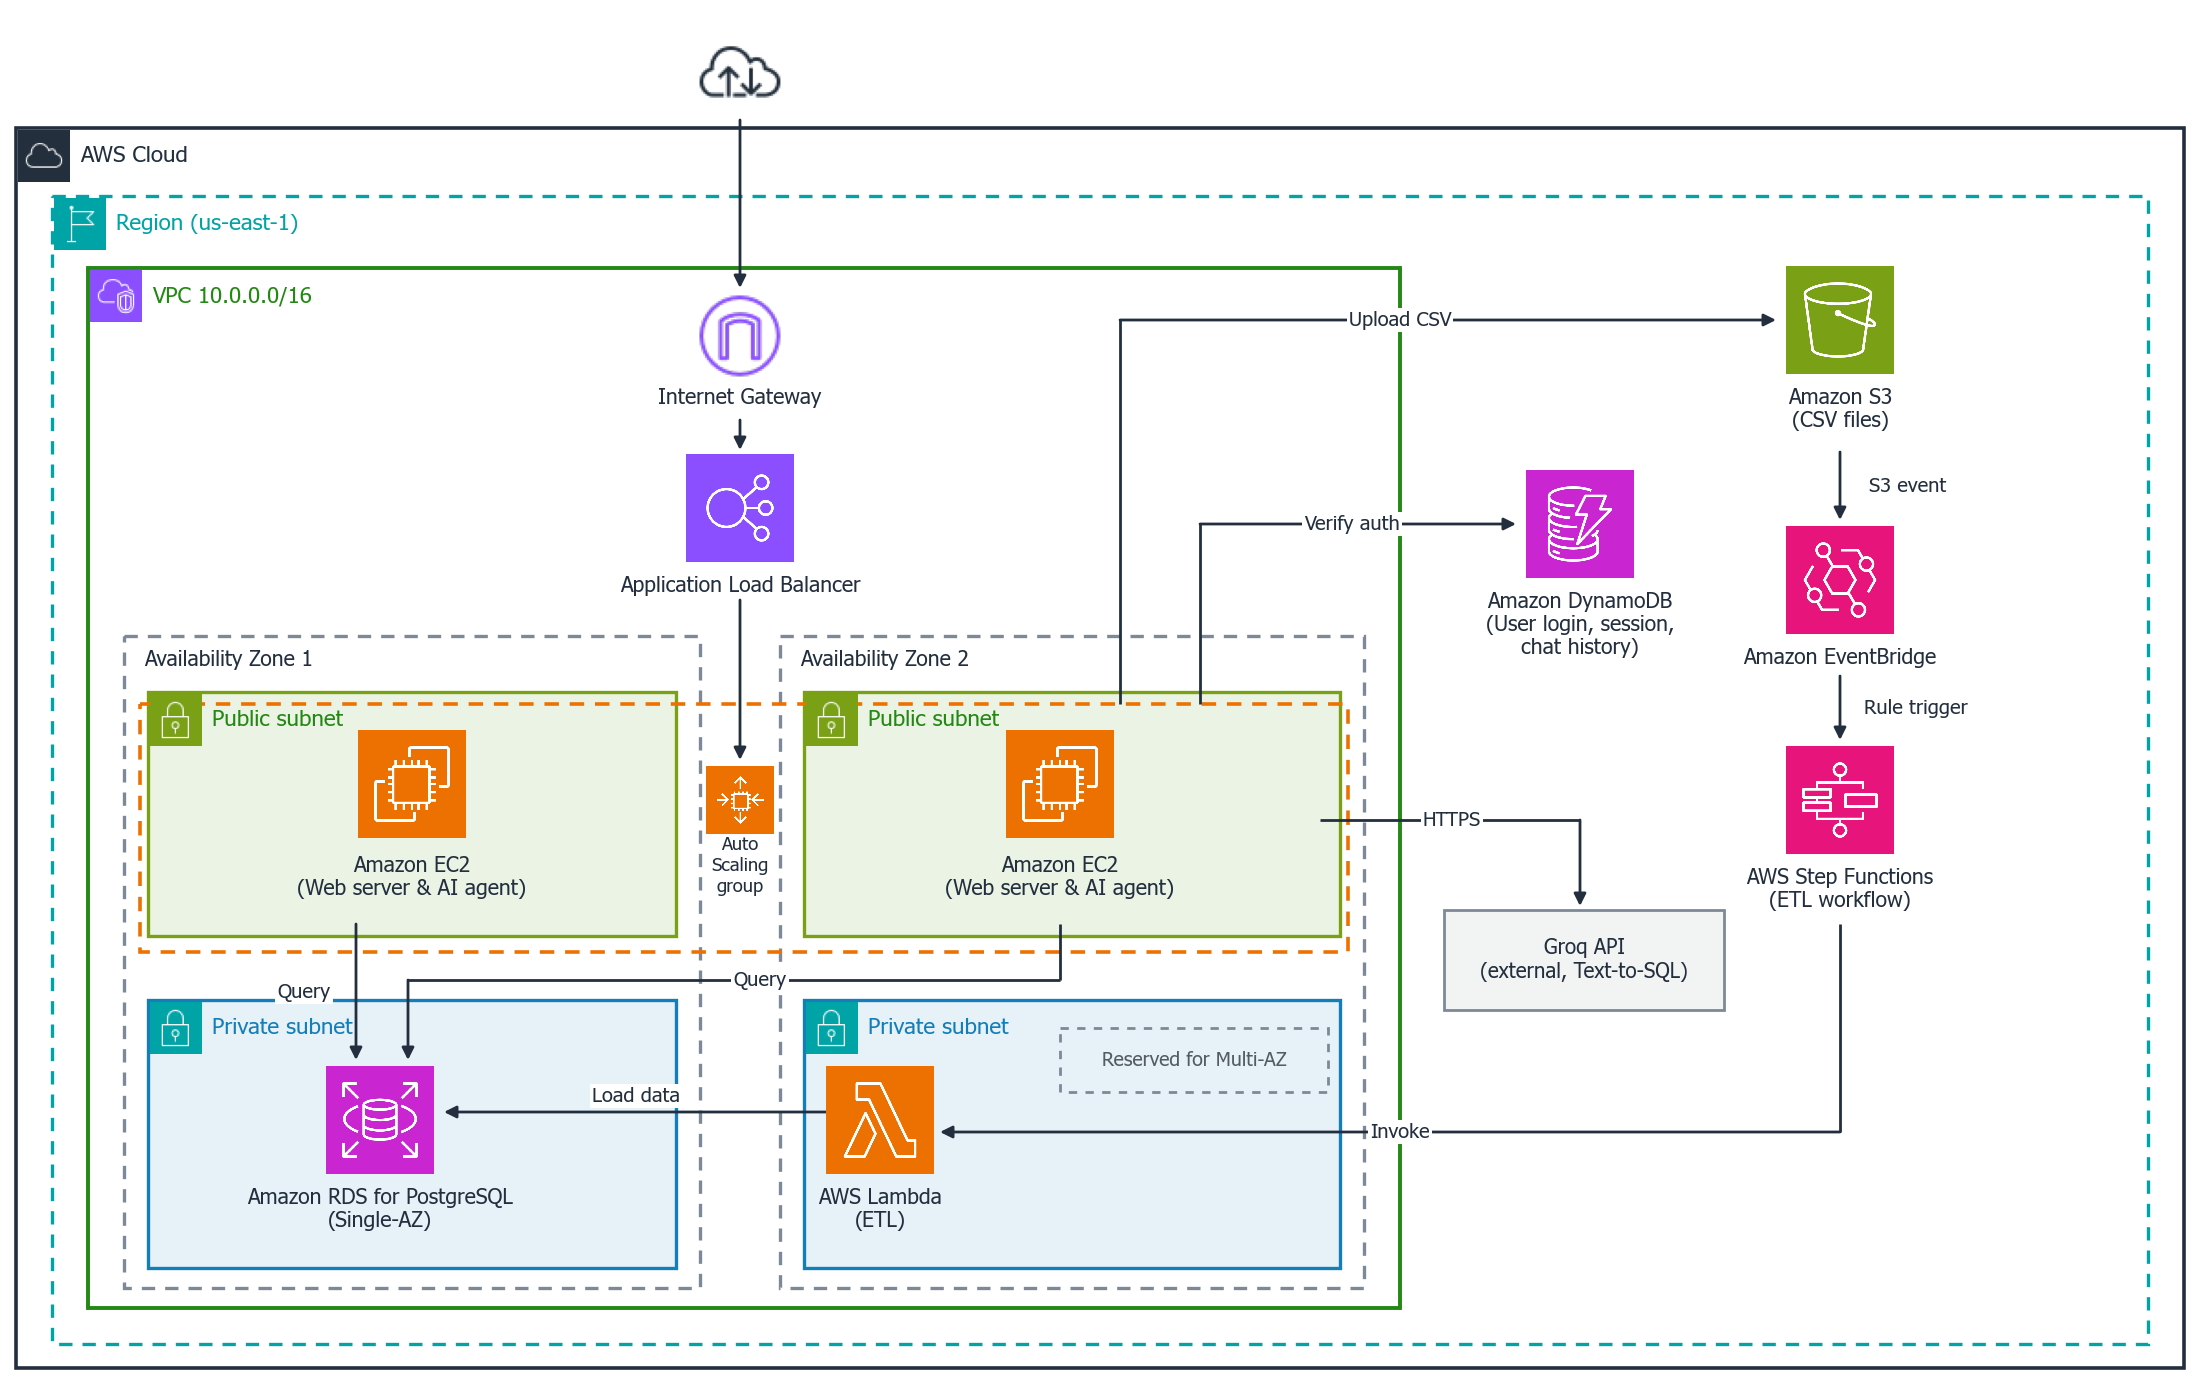
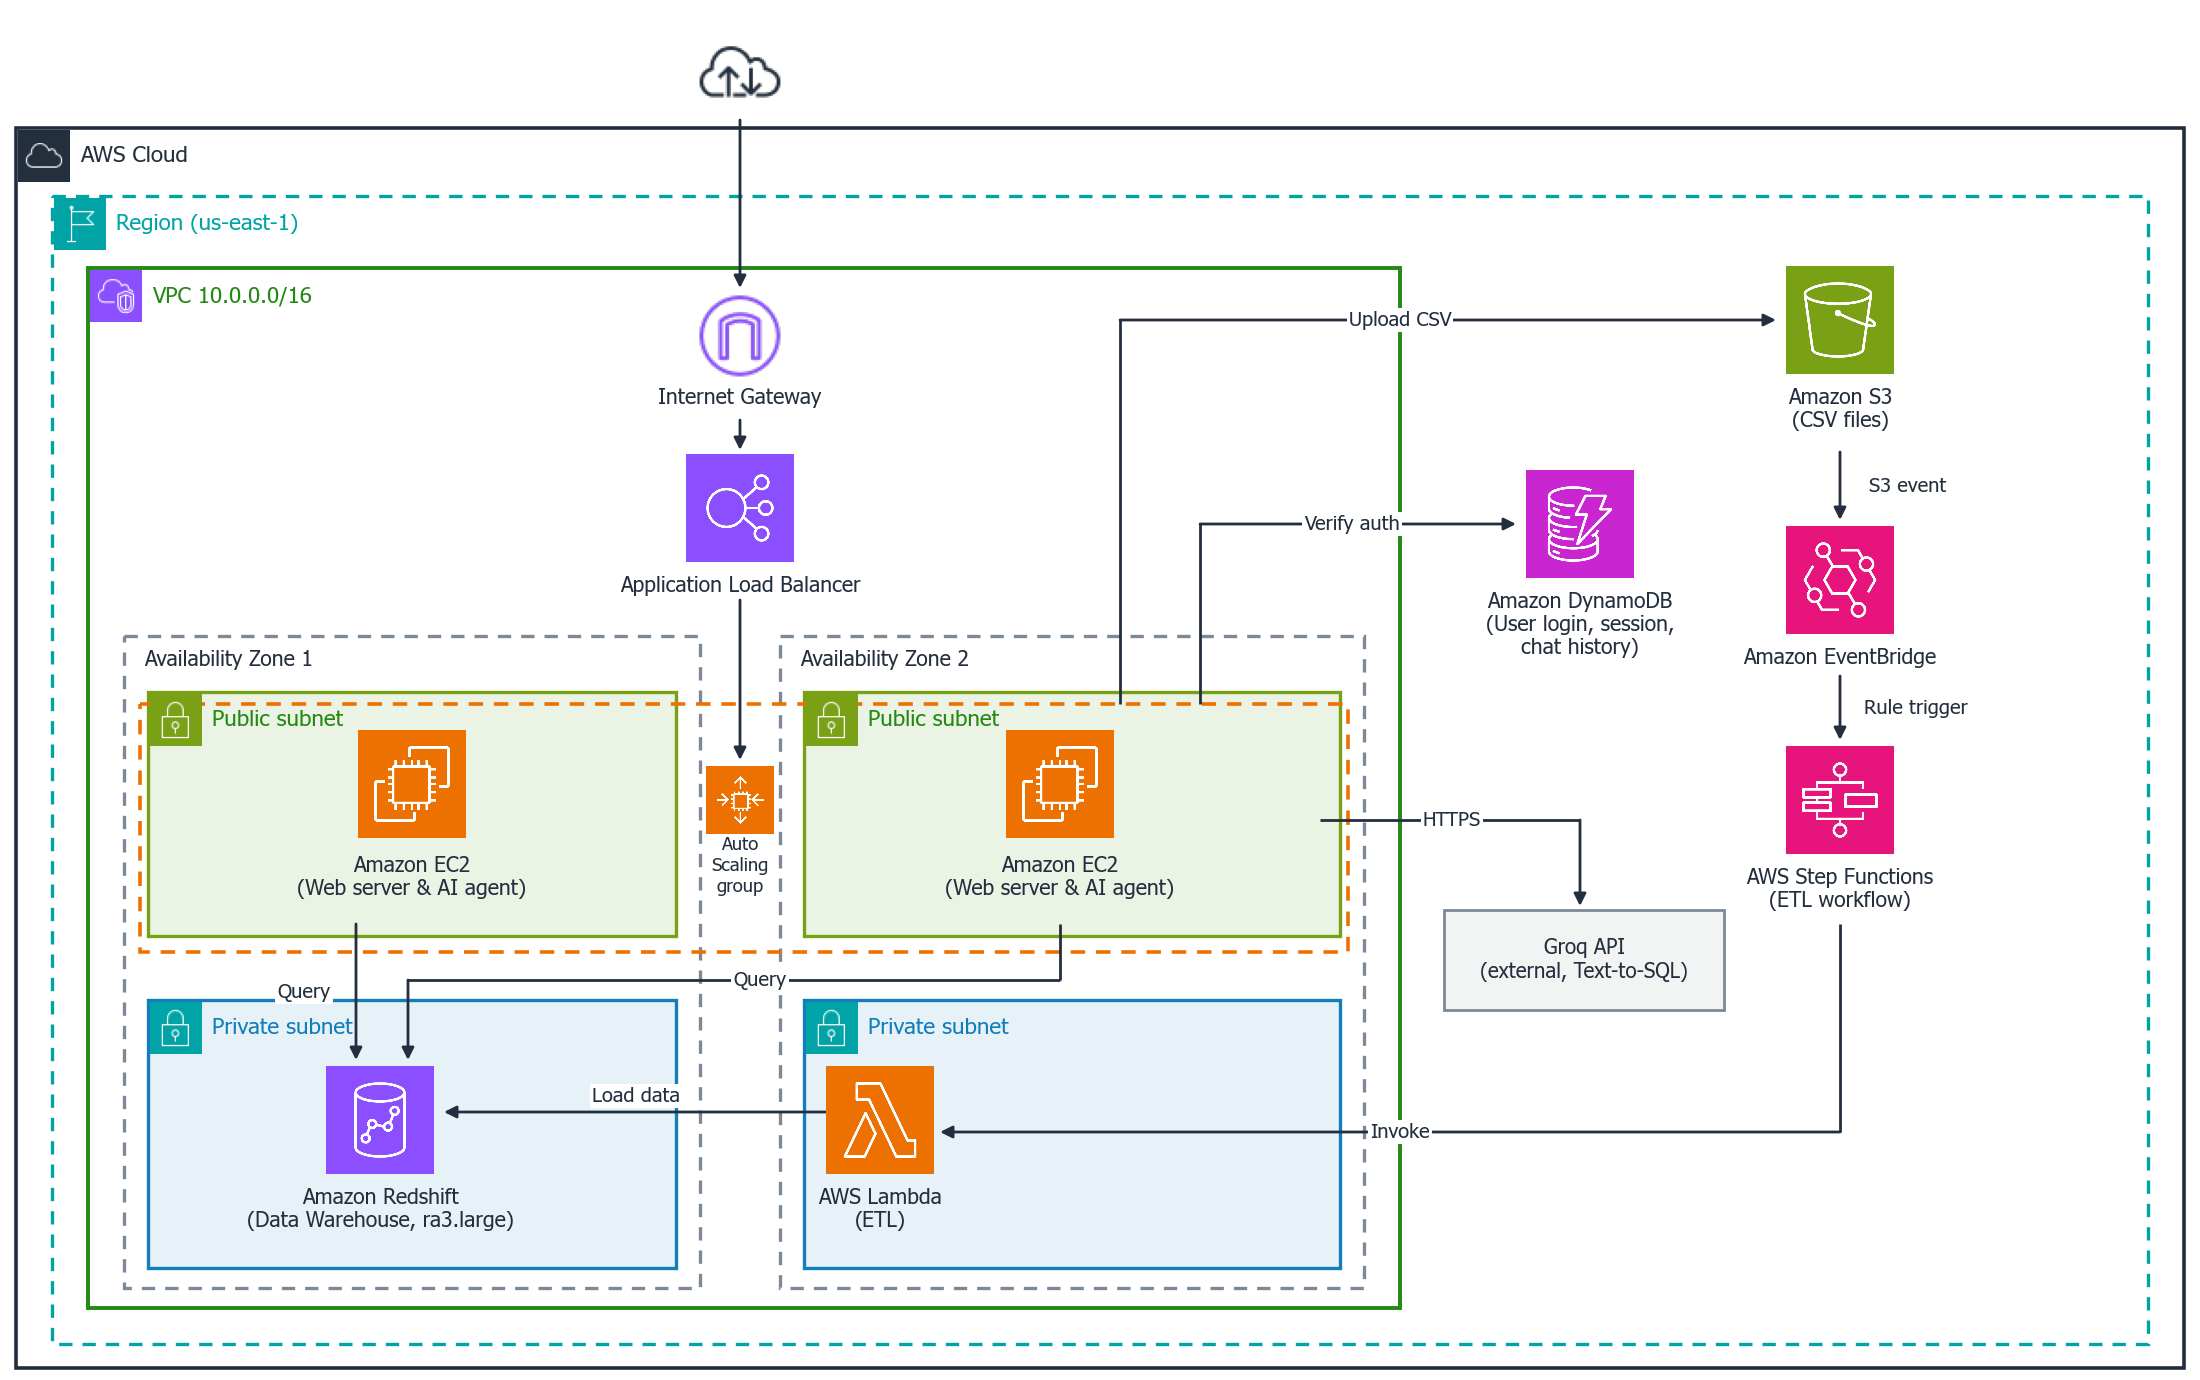
docs: update README and deployment notes for Redshift

Changed region(s): [[0.1236, 0.7478, 0.2473, 0.9036], [0.4945, 0.7478, 0.5873, 0.779]]

diff --git a/README.md b/README.md
@@ -16,7 +16,7 @@ flowchart TD
     API --> PLAN["LLM Query Planner (Qwen / Groq)"]
     PLAN --> GUARD["SQL AST Guardrails (SQLGlot)"]
     GUARD -->|Rejected| API
-    GUARD -->|Validated SELECT| RDS[("Amazon RDS PostgreSQL (Data Warehouse)")]
+    GUARD -->|Validated SELECT| RDS[("Amazon Redshift (Data Warehouse)")]
     RDS --> SUMMARY["Answer Summarizer & Chart Builder"]
     SUMMARY --> API
     API --> UI
@@ -25,11 +25,11 @@ flowchart TD
 
 ![Frontend Preview](assets/frontend_preview.png)
 
-> **AgriChain** is a serverless-style data warehouse on AWS for an agriculture supply chain: event-driven ETL (S3 → EventBridge → Step Functions → Lambda) into a star schema on Amazon RDS PostgreSQL, a role-based web portal, and a guarded Thai Text-to-SQL AI assistant. The whole stack (36 resources) deploys with one CloudFormation template.
+> **AgriChain** is a serverless-style data warehouse on AWS for an agriculture supply chain: event-driven ETL (S3 → EventBridge → Step Functions → Lambda) into a star schema on Amazon Redshift, a role-based web portal, and a guarded Thai Text-to-SQL AI assistant. The whole stack (36 resources) deploys with one CloudFormation template.
 
 ## สถาปัตยกรรมที่ติดตั้งจริงบน AWS (As-built)
 
-ภาพด้านบนเป็นสถาปัตยกรรมตามแผนที่เสนอไว้ตอนเริ่มโครงงาน ส่วนภาพนี้คือระบบที่ติดตั้งจริงบน AWS Academy Learner Lab (us-east-1) ซึ่งต่างจากแผนใน 3 จุด: ใช้ **Amazon RDS for PostgreSQL** แทน Redshift, เพิ่ม **Amazon EventBridge** ระหว่าง S3 กับ Step Functions และวาง **AWS Lambda** ไว้ใน Private Subnet เพื่อเชื่อมต่อฐานข้อมูล
+ภาพด้านบนเป็นสถาปัตยกรรมตามแผนที่เสนอไว้ตอนเริ่มโครงงาน ส่วนภาพนี้คือระบบที่ติดตั้งจริงบน AWS Academy Learner Lab (us-east-1) ซึ่งใช้ **Amazon Redshift** เป็นคลังข้อมูลตามแผน และต่างจากแผนใน 2 จุด: เพิ่ม **Amazon EventBridge** ระหว่าง S3 กับ Step Functions และวาง **AWS Lambda** ไว้ใน Private Subnet เพื่อเชื่อมต่อฐานข้อมูล
 
 ![AWS Architecture (as built)](assets/aws_architecture_as_built.png)
 
@@ -37,10 +37,10 @@ flowchart TD
 
 | ชั้น | บริการ | หน้าที่ |
 |---|---|---|
-| เครือข่าย | VPC 10.0.0.0/16, 2 AZ, Internet Gateway, ALB | Public Subnet สำหรับ ALB/EC2, Private Subnet สำหรับ RDS/Lambda |
+| เครือข่าย | VPC 10.0.0.0/16, 2 AZ, Internet Gateway, ALB | Public Subnet สำหรับ ALB/EC2, Private Subnet สำหรับ Redshift/Lambda |
 | เว็บและ AI | EC2 + Auto Scaling (1–4), Express :3000, FastAPI :8000 | พอร์ทัลเว็บ, แดชบอร์ด, ผู้ช่วย AI (Text-to-SQL) |
 | ETL | S3, EventBridge, Step Functions, Lambda (Python 3.12) | โหลด CSV เข้าคลังข้อมูลอัตโนมัติเมื่ออัปโหลดไฟล์ |
-| คลังข้อมูล | Amazon RDS for PostgreSQL | Star Schema: Fact 4 ตาราง, Dimension 5 ตาราง (SCD Type 1/2/3) |
+| คลังข้อมูล | Amazon Redshift (ra3.large, 1 โหนด) | Star Schema: Fact 4 ตาราง, Dimension 5 ตาราง (SCD Type 1/2/3) |
 | ผู้ใช้/ความลับ | DynamoDB, SSM Parameter Store | บัญชีผู้ใช้/เซสชัน/ประวัติแชท และ API key |
 
 ## ภาพหน้าจอระบบ
@@ -62,7 +62,7 @@ flowchart TD
 - นำเข้าไฟล์ CSV ครบ 8 ไฟล์ รวม **170,504 แถว** ทุก Execution ของ Step Functions เป็น SUCCEEDED (ไฟล์ละประมาณ 1–22 วินาที)
 - แบ่งสิทธิ์ 3 บทบาท (Data Admin / Data Analyst / Executive) ตรวจที่ฝั่งเซิร์ฟเวอร์ทั้งหน้าเว็บและ API
 - ติดตั้งทั้งระบบด้วยคำสั่งเดียว (`python infra/deploy.py`) ค่าใช้จ่ายจริงตลอดการพัฒนาประมาณ $2.45
-- ข้อจำกัดที่ทราบ: ALB รับเฉพาะ HTTP, RDS เป็น Single-AZ, และกราฟบางส่วนของแดชบอร์ด (แนวโน้มรายเดือน, Top 5 สหกรณ์) ยังเป็นข้อมูลตัวอย่าง
+- ข้อจำกัดที่ทราบ: ALB รับเฉพาะ HTTP, Redshift เป็นแบบโหนดเดียว (ไม่มี Multi-AZ) และคิดค่าใช้จ่ายราว $0.543/ชม. จึงควรเปิดเฉพาะเวลาใช้งาน, และกราฟบางส่วนของแดชบอร์ด (แนวโน้มรายเดือน, Top 5 สหกรณ์) ยังเป็นข้อมูลตัวอย่าง
 
 ---
 
@@ -76,7 +76,7 @@ flowchart TD
 ## ความสามารถหลักของระบบ
 
 1. **Natural Language to SQL (Text-to-SQL)**:
-   - แปลงคำถามภาษาไทยเป็นคำสั่ง PostgreSQL สำหรับ Star Schema ของ Data Warehouse
+   - แปลงคำถามภาษาไทยเป็นคำสั่ง SQL (Amazon Redshift) สำหรับ Star Schema ของ Data Warehouse
    - สรุปผลลัพธ์เป็นภาษาไทยที่เข้าใจง่าย พร้อมระบุที่มาและสมมติฐาน (Assumptions)
 2. **Deterministic SQL Guardrails (ความปลอดภัยสูงสุด)**:
    - ตรวจสอบ Abstract Syntax Tree (AST) ด้วย SQLGlot ก่อนส่งไปยังฐานข้อมูล
@@ -111,7 +111,7 @@ CLOUD/
 │   ├── agents/              # Query planner, Agent state และ Text-to-SQL logic
 │   ├── api/                 # REST API endpoints และ Request/Response schemas
 │   ├── core/                # System configuration และ environment settings
-│   ├── db/                  # RDS database connection และ Schema Catalog
+│   ├── db/                  # Redshift database connection และ Schema Catalog
 │   ├── guardrails/          # SQLGlot AST Guardrail validation
 │   ├── prompts/             # System prompts และ Text-to-SQL templates
 │   ├── providers/           # LLM Providers (Qwen via Groq API)
@@ -133,7 +133,7 @@ CLOUD/
 │   ├── translations.js      # Unified i18n Translation Engine & Bilingual Dictionary (TH/EN)
 │   ├── app.js & login.js    # Client-side controller logic
 │   └── styles.css           # Modern Theme Stylesheet
-├── scripts/                 # สคริปต์จัดการ Schema และ Benchmark บน RDS
+├── scripts/                 # สคริปต์จัดการ Schema และ Benchmark บน Redshift
 ├── tests/                   # Pytest automated test suite (33 tests)
 ├── .env.example             # ตัวอย่างการตั้งค่า Environment Variables
 ├── Dockerfile               # Dockerfile สำหรับ Build Deploy ขึ้น Amazon EC2
@@ -141,7 +141,7 @@ CLOUD/
 ├── package.json & server.js # Node.js Express สำหรับ AWS DynamoDB และ S3
 ├── requirements.txt         # Python runtime dependencies
 ├── requirements-dev.txt     # Python development & testing dependencies
-├── schema.sql               # PostgreSQL Schema Definition สำหรับ Amazon RDS
+├── schema.sql               # Redshift Schema Definition (DISTKEY/SORTKEY)
 ├── setup.bat                # สคริปต์ติดตั้งระบบอัตโนมัติสำหรับ Windows
 └── start.bat                # สคริปต์เริ่มการทำงานระบบพร้อมเปิดเบราว์เซอร์
 ```
@@ -152,9 +152,9 @@ CLOUD/
 
 - **Language & Frameworks**: Python 3.10+, FastAPI, Node.js (Express)
 - **AI / LLM Model**: Qwen (`qwen/qwen3.8-27b`) ผ่าน Groq Cloud API
-- **Database**: Amazon RDS PostgreSQL 16 (Star Schema: Fact & Dimension)
+- **Database**: Amazon Redshift (Star Schema: Fact & Dimension)
 - **Security & Validation**: SQLGlot, Pydantic v2
-- **Cloud Infrastructure**: Amazon EC2, Amazon RDS, Amazon S3, Amazon DynamoDB
+- **Cloud Infrastructure**: Amazon EC2, Amazon Redshift, Amazon S3, Amazon DynamoDB
 - **Frontend & i18n**: HTML5, Modern CSS (Responsive), Vanilla JavaScript, Chart.js, i18next (Internationalization)
 
 ---
@@ -181,8 +181,8 @@ LLM_PROVIDER=qwen
 GROQ_MODEL=qwen/qwen3.8-27b
 GROQ_API_KEY=...
 
-# Amazon RDS PostgreSQL
-DATABASE_URL=postgresql+psycopg://<USER>:<PASSWORD>@<ENDPOINT>:5432/<DB_NAME>?sslmode=require
+# Amazon Redshift (พอร์ต 5439, ฐานข้อมูล dev)
+DATABASE_URL=postgresql+psycopg://<USER>:<PASSWORD>@<REDSHIFT_ENDPOINT>:5439/dev?sslmode=require
 DATABASE_SCHEMA=data_warehouse
 ```
 
@@ -233,7 +233,7 @@ package-handoff.bat
 .\.venv\Scripts\python.exe scripts\smoke_test_providers.py
 ```
 
-### ตรวจสอบความถูกต้องของ Schema บน RDS
+### ตรวจสอบความถูกต้องของ Schema บน Redshift
 
 ```powershell
 .\.venv\Scripts\python.exe scripts\verify_rds_schema.py
@@ -251,7 +251,7 @@ package-handoff.bat
   "env": "local",
   "llm_provider": "qwen",
   "llm_model": "qwen/qwen3.8-27b",
-  "database_source": "amazon-rds"
+  "database_source": "amazon-redshift"
 }
 ```
 

diff --git a/docs/aws_architecture_deployment.md b/docs/aws_architecture_deployment.md
@@ -11,14 +11,14 @@
 | Internet Gateway | Yes | Public route table |
 | Application Load Balancer | Yes, HTTP :80 -> target group :3000 | Sticky sessions on, health check `/healthz` |
 | Auto Scaling group, EC2 in 2 public subnets | Yes, 2 instances (min 1, max 4, CPU target 60%) | Each instance runs the Express web server **and** the FastAPI AI agent |
-| Amazon Redshift + subnet group in private subnets | **Amazon RDS PostgreSQL** in private subnets, DB subnet group over both AZs | Redshift is not usable in Learner Lab; RDS was already the chosen substitute. Second private subnet is the failover reserve (`DBMultiAZ=true` if your account allows it) |
+| Amazon Redshift + subnet group in private subnets | **Amazon Redshift** `ra3.large`, single node, encrypted, in private subnets (cluster subnet group over both AZs) | Learner Lab only accepts `ra3.*`/`rg.*` node types (`dc2.*` and Redshift Serverless are rejected) and requires encryption. Multi-AZ needs several nodes, so it is not used |
 | DynamoDB (user login & session) | Yes: `*_user_login`, `*_user_session` (TTL), `*_chat_history` | Passwords hashed with scrypt; the API verifies the session on every call |
 | S3 (CSV file) | Yes, private bucket, prefix `csv-uploads/` | |
 | Event Trigger -> Step Functions | S3 -> EventBridge rule -> Step Functions state machine | S3 cannot start a state machine directly; EventBridge is the supported bridge |
 | AWS Lambda -> Load data | Lambda **inside the private subnets** | Reaches S3 and DynamoDB through free gateway endpoints, so no NAT gateway is needed |
 
-Skipped because of Learner Lab limits or cost: NAT gateway, Redshift, HTTPS/ACM certificate (ALB is HTTP only),
-Multi-AZ RDS by default, and any IAM role creation (`LabRole` / `LabInstanceProfile` are reused).
+Skipped because of Learner Lab limits or cost: NAT gateway, HTTPS/ACM certificate (ALB is HTTP only),
+Redshift Multi-AZ (needs several nodes), and any IAM role creation (`LabRole` / `LabInstanceProfile` are reused).
 
 ## Deploy
 
@@ -32,7 +32,7 @@ python infra/deploy.py --groq-key gsk_xxxxxxxx --admin-password "ChooseALoginPas
 Optional flags: `--admin-username`, `--key-name vockey` (SSH), `--ssh-cidr x.x.x.x/32`, `--capacity 1`.
 
 The script stores the Groq key and a generated DB password in SSM Parameter Store, uploads the app and the
-Lambda package to an artifacts bucket, and creates the stack (about 15 minutes, mostly RDS). It prints
+Lambda package to an artifacts bucket, and creates the stack (about 15 minutes, mostly Redshift). It prints
 `WebsiteUrl`; wait ~5 more minutes for the instances to install and pass the ALB health check.
 
 On the first deploy a CloudFormation custom resource runs inside the VPC to create the `data_warehouse` schema,
@@ -49,12 +49,12 @@ Existing instances are not replaced automatically; terminate them (ASG starts fr
    Sales, Shipment, Inventory. File names must contain those words.
 3. Each upload starts a Step Functions execution. Watch it in the console under Step Functions -> `agrichain-etl`
    (a fact file that references a dimension that has not been loaded fails with a clear message in the execution).
-4. Ask the AI assistant questions; it queries RDS through the SQL guardrails.
+4. Ask the AI assistant questions; it queries Redshift through the SQL guardrails.
 
 ## Operations
 
-* **Query the private RDS**: it has no public address. Use SSM Session Manager or SSH to an instance, then
-  `psql "host=<RdsEndpoint> user=admin_agri dbname=postgres sslmode=require"` (password: SSM `/agrichain/db_password`).
+* **Query the private Redshift**: it has no public address. Use the Redshift query editor v2 or the Redshift Data API with the cluster
+  `agrichain-dwh` (database `dev`, user `admin_agri`, password: SSM `/agrichain/db_password`), or run `psql "host=<RedshiftEndpoint> port=5439 user=admin_agri dbname=dev sslmode=require"` from an instance.
 * **Web/AI logs**: `journalctl -u agrichain-web -u agrichain-ai`; bootstrap log `/var/log/agrichain-bootstrap.log`.
 * **ETL logs**: CloudWatch log group `/aws/lambda/agrichain-etl`.
 * **Tear down**: empty the CSV bucket and the artifacts bucket, then delete the stack `agrichain`.
@@ -65,5 +65,5 @@ Existing instances are not replaced automatically; terminate them (ASG starts fr
   rejects `events.amazonaws.com`, stack creation fails on `CsvUploadRule`; the fallback is an S3 notification to a
   tiny Lambda that calls `StartExecution`.
 * Lab sessions end and the account can be recycled. Everything is reproducible by re-running `deploy.py`, but the
-  data is not: the RDS instance is deleted with the stack.
+  data is not: the Redshift cluster is deleted with the stack.
 * Groq (the LLM) is reached over the internet from the public subnets; that is why the EC2 instances keep public IPs.
